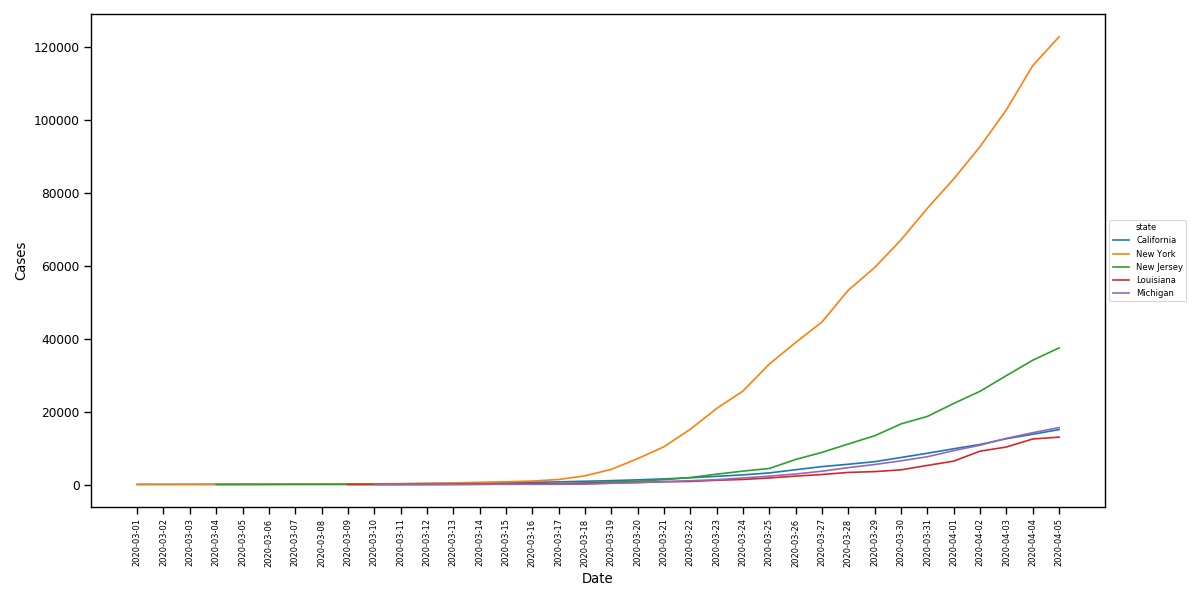
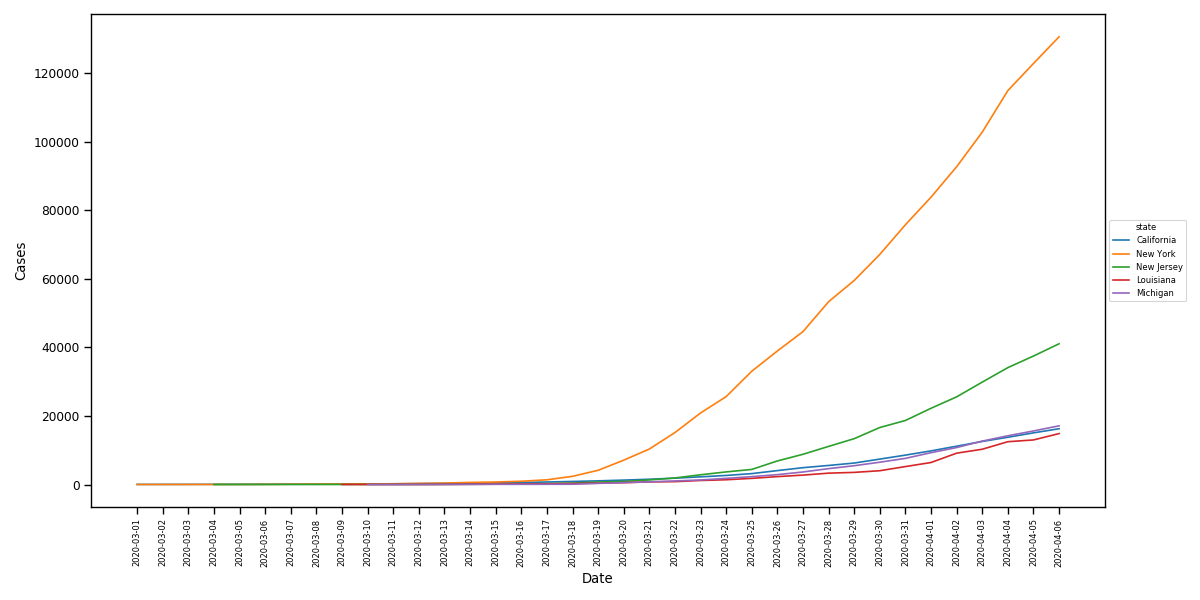
Udated data.

diff --git a/README.md b/README.md
@@ -4,8 +4,8 @@ In this forked repo from the New York Times, I've written a module in Python wit
 Cases Per County in Wisconsin Since March 8, 2020  
 ![Case Counts per County in Wisconsin](https://github.com/dgellerup/covid-19-data/blob/master/plots/wisconsin.gif)  
 
-Case Counts for 5 Most-Affected States From March 1, 2020 to April 5, 2020
-![Case Counts for 5 Most-Affected States From March 1, 2020 to April 5, 2020](https://github.com/dgellerup/covid-19-data/blob/master/plots/plot.png)
+Case Counts for 5 Most-Affected States From March 1, 2020 to April 6, 2020
+![Case Counts for 5 Most-Affected States From March 1, 2020 to April 6, 2020](https://github.com/dgellerup/covid-19-data/blob/master/plots/plot.png)
 
 # Coronavirus (Covid-19) Data in the United States
 
